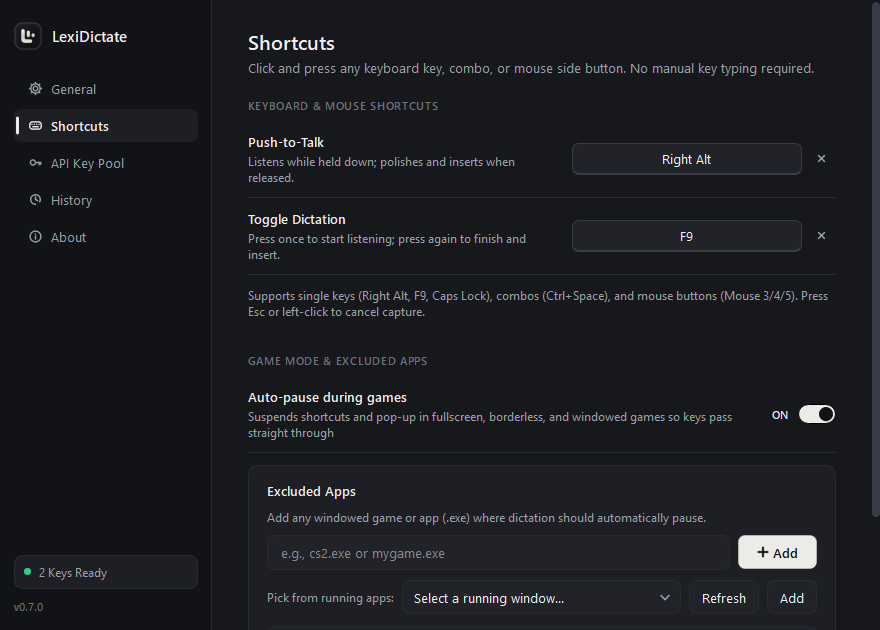
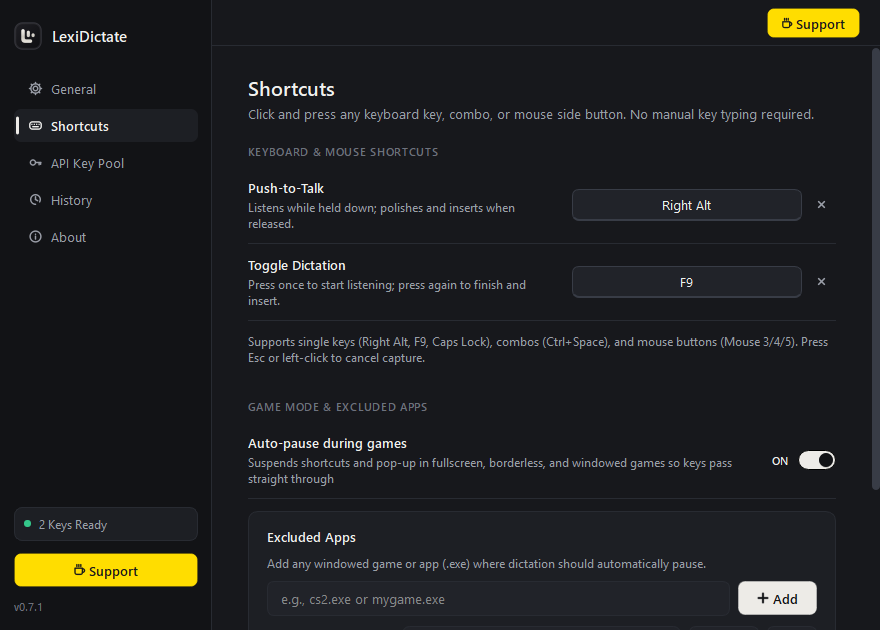
Update README and screenshots for v0.7.1

diff --git a/README.md b/README.md
@@ -14,9 +14,9 @@ System-wide voice dictation for Windows powered by Gemini Live and Flash.
 [![Patreon](https://img.shields.io/badge/patreon-support-f96854?style=flat-square&logo=patreon&logoColor=white)](https://www.patreon.com/cw/LexiApps)
 [![Buy Me a Coffee](https://img.shields.io/badge/buy%20me%20a%20coffee-tip-ffdd00?style=flat-square&logo=buymeacoffee&logoColor=black)](https://buymeacoffee.com/lexiapps)
 
-### [Download LexiDictate 0.7.0 for Windows](https://github.com/lexi-apps/lexi-dictate/releases/latest)
+### [Download LexiDictate 0.7.1 for Windows](https://github.com/lexi-apps/lexi-dictate/releases/latest)
 
-<sub>Run <code>LexiDictate-Setup-0.7.0.exe</code> from the latest release. Windows 10 or Windows 11 (64-bit).</sub>
+<sub>Run <code>LexiDictate-Setup-0.7.1.exe</code> from the latest release. Windows 10 or Windows 11 (64-bit).</sub>
 
 [Overview](#overview) · [Features](#features) · [Screenshots](#screenshots) · [Installation](#installation) · [FAQ](#faq)
 
@@ -73,7 +73,7 @@ Audio and keys move directly between your machine and Google AI Studio using you
 
 ## Installation
 
-1. Download **`LexiDictate-Setup-0.7.0.exe`** from the [latest release](https://github.com/lexi-apps/lexi-dictate/releases/latest).
+1. Download **`LexiDictate-Setup-0.7.1.exe`** from the [latest release](https://github.com/lexi-apps/lexi-dictate/releases/latest).
 2. Run the installer. Because the binary is not code-signed yet, Windows SmartScreen may ask for confirmation: choose **More info -> Run anyway**.
 3. Create an API key in [Google AI Studio](https://aistudio.google.com/apikey) and add it under **API Key Pool**.
 4. Configure your **Push-to-Talk** or **Toggle** binding under **Shortcuts**, focus any text field, and start speaking.
